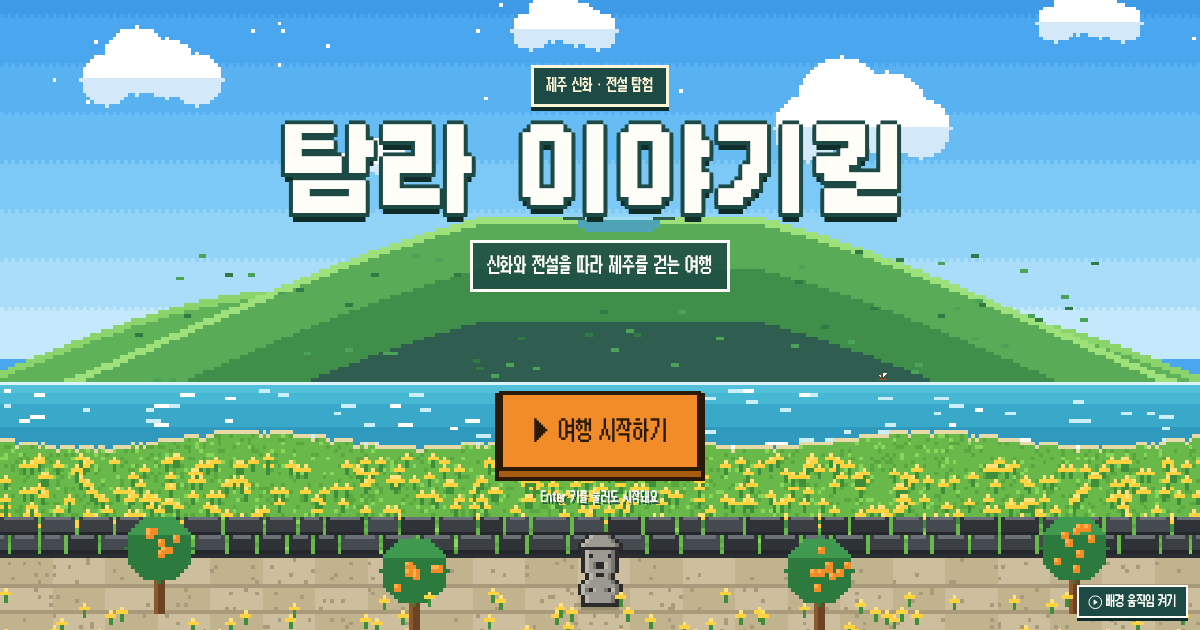
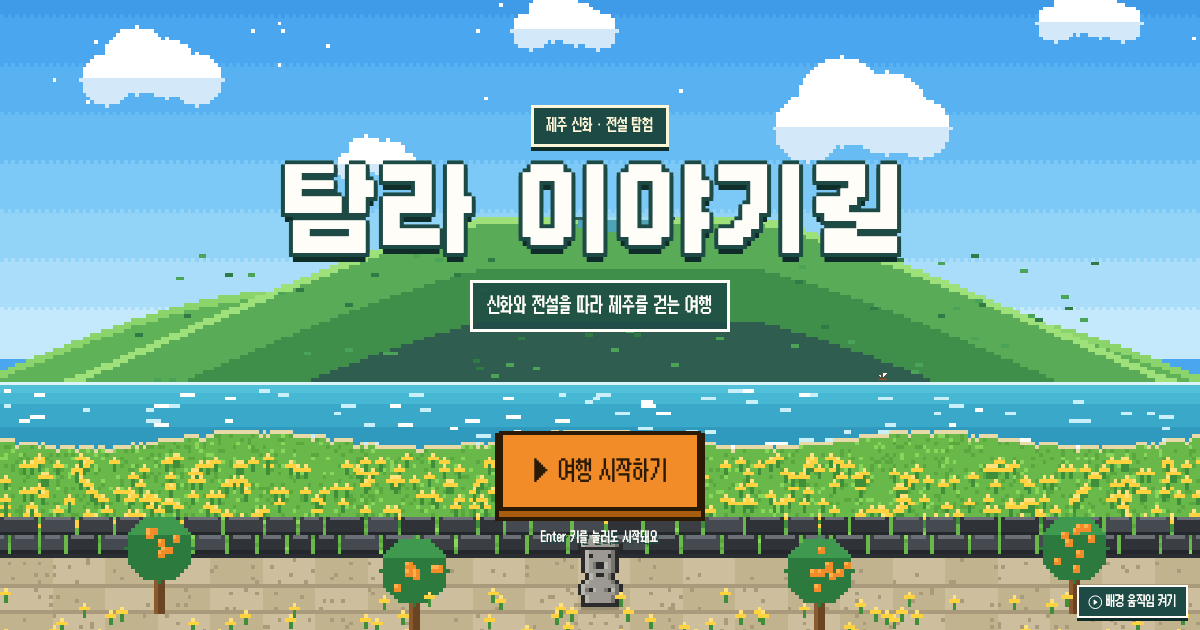
style: move landing title and button to flower field

Changed region(s): [[0.2158, 0.0905, 0.7708, 0.5429], [0.4008, 0.6032, 0.5858, 0.8746]]

diff --git a/jeju-ip-sample-solution/src/styles/landing.css b/jeju-ip-sample-solution/src/styles/landing.css
@@ -34,7 +34,9 @@
 }
 /* 제목 아래가 한라산 봉우리와 만나는 높이에 오도록 배경 배율에 맞춰 함께 내린다. */
 @media (min-width: 1024px) {
-  .landing-ui { padding-top: max(3.5rem, calc(70dvh - var(--s) * 60 - 151px)); }
+  .landing-ui {
+    padding-top: max(3.5rem, calc(70dvh - var(--s) * 60 - 151px + clamp(2.5rem, calc(var(--s) * 58 - 216px), 8rem)));
+  }
 }
 .landing-tag {
   margin: 0; padding: .25rem .8rem; font-size: clamp(.8rem, 2.2vw, 1rem); color: #fff6d8;
